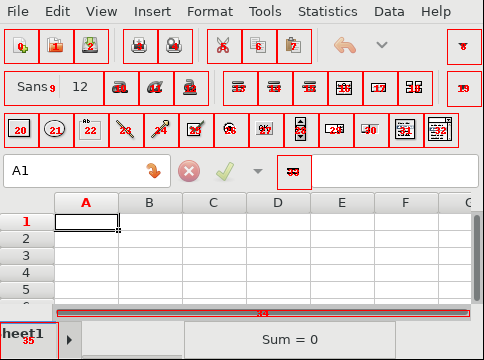
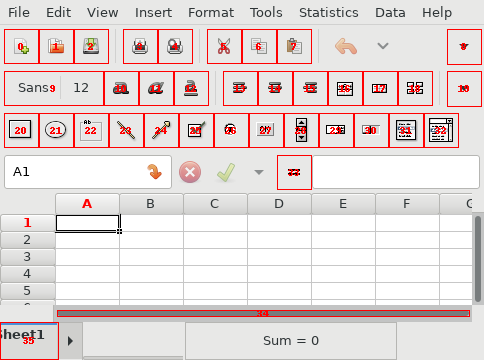
bbox change in generated files

diff --git a/README.md b/README.md
@@ -67,7 +67,7 @@ img.save("zenity-buttons.png")
 Run it:
 ```console
 $ python3 -m discogui.examples.buttondiscovery
-[ScreenRect((427,416,510,446)), ScreenRect((516,416,599,446))]
+[ScreenRect((426,415,509,445)), ScreenRect((515,415,598,445))]
 ```
 
 Image:
@@ -111,7 +111,7 @@ img.save("gnumeric-buttons.png")
 Run it:
 ```console
 $ python3 -m discogui.examples.hovergnumeric
-[ScreenRect((5,30,39,64)), ScreenRect((40,30,74,64)), ScreenRect((75,30,109,64)), ScreenRect((124,30,158,64)), ScreenRect((159,30,193,64)), ScreenRect((208,30,242,64)), ScreenRect((243,30,277,64)), ScreenRect((278,30,312,64)), ScreenRect((448,30,482,65)), ScreenRect((5,72,104,106)), ScreenRect((105,72,139,106)), ScreenRect((140,72,174,106)), ScreenRect((175,72,209,106)), ScreenRect((224,72,258,106)), ScreenRect((259,72,293,106)), ScreenRect((294,72,328,106)), ScreenRect((329,72,363,106)), ScreenRect((364,72,398,106)), ScreenRect((399,72,433,106)), ScreenRect((448,72,482,107)), ScreenRect((5,114,39,148)), ScreenRect((40,114,74,148)), ScreenRect((75,114,109,148)), ScreenRect((110,114,144,148)), ScreenRect((145,114,179,148)), ScreenRect((180,114,214,148)), ScreenRect((215,114,249,148)), ScreenRect((250,114,284,148)), ScreenRect((285,114,319,148)), ScreenRect((320,114,354,148)), ScreenRect((355,114,389,148)), ScreenRect((390,114,424,148)), ScreenRect((425,114,459,148)), ScreenRect((278,156,312,190)), ScreenRect((58,311,470,317)), ScreenRect((1,323,59,360))]
+[ScreenRect((4,29,38,63)), ScreenRect((39,29,73,63)), ScreenRect((74,29,108,63)), ScreenRect((123,29,157,63)), ScreenRect((158,29,192,63)), ScreenRect((207,29,241,63)), ScreenRect((242,29,276,63)), ScreenRect((277,29,311,63)), ScreenRect((447,29,481,64)), ScreenRect((4,71,103,105)), ScreenRect((104,71,138,105)), ScreenRect((139,71,173,105)), ScreenRect((174,71,208,105)), ScreenRect((223,71,257,105)), ScreenRect((258,71,292,105)), ScreenRect((293,71,327,105)), ScreenRect((328,71,362,105)), ScreenRect((363,71,397,105)), ScreenRect((398,71,432,105)), ScreenRect((447,71,481,106)), ScreenRect((4,113,38,147)), ScreenRect((39,113,73,147)), ScreenRect((74,113,108,147)), ScreenRect((109,113,143,147)), ScreenRect((144,113,178,147)), ScreenRect((179,113,213,147)), ScreenRect((214,113,248,147)), ScreenRect((249,113,283,147)), ScreenRect((284,113,318,147)), ScreenRect((319,113,353,147)), ScreenRect((354,113,388,147)), ScreenRect((389,113,423,147)), ScreenRect((424,113,458,147)), ScreenRect((277,155,311,189)), ScreenRect((57,310,469,316)), ScreenRect((0,322,58,359))]
 ```
 
 
